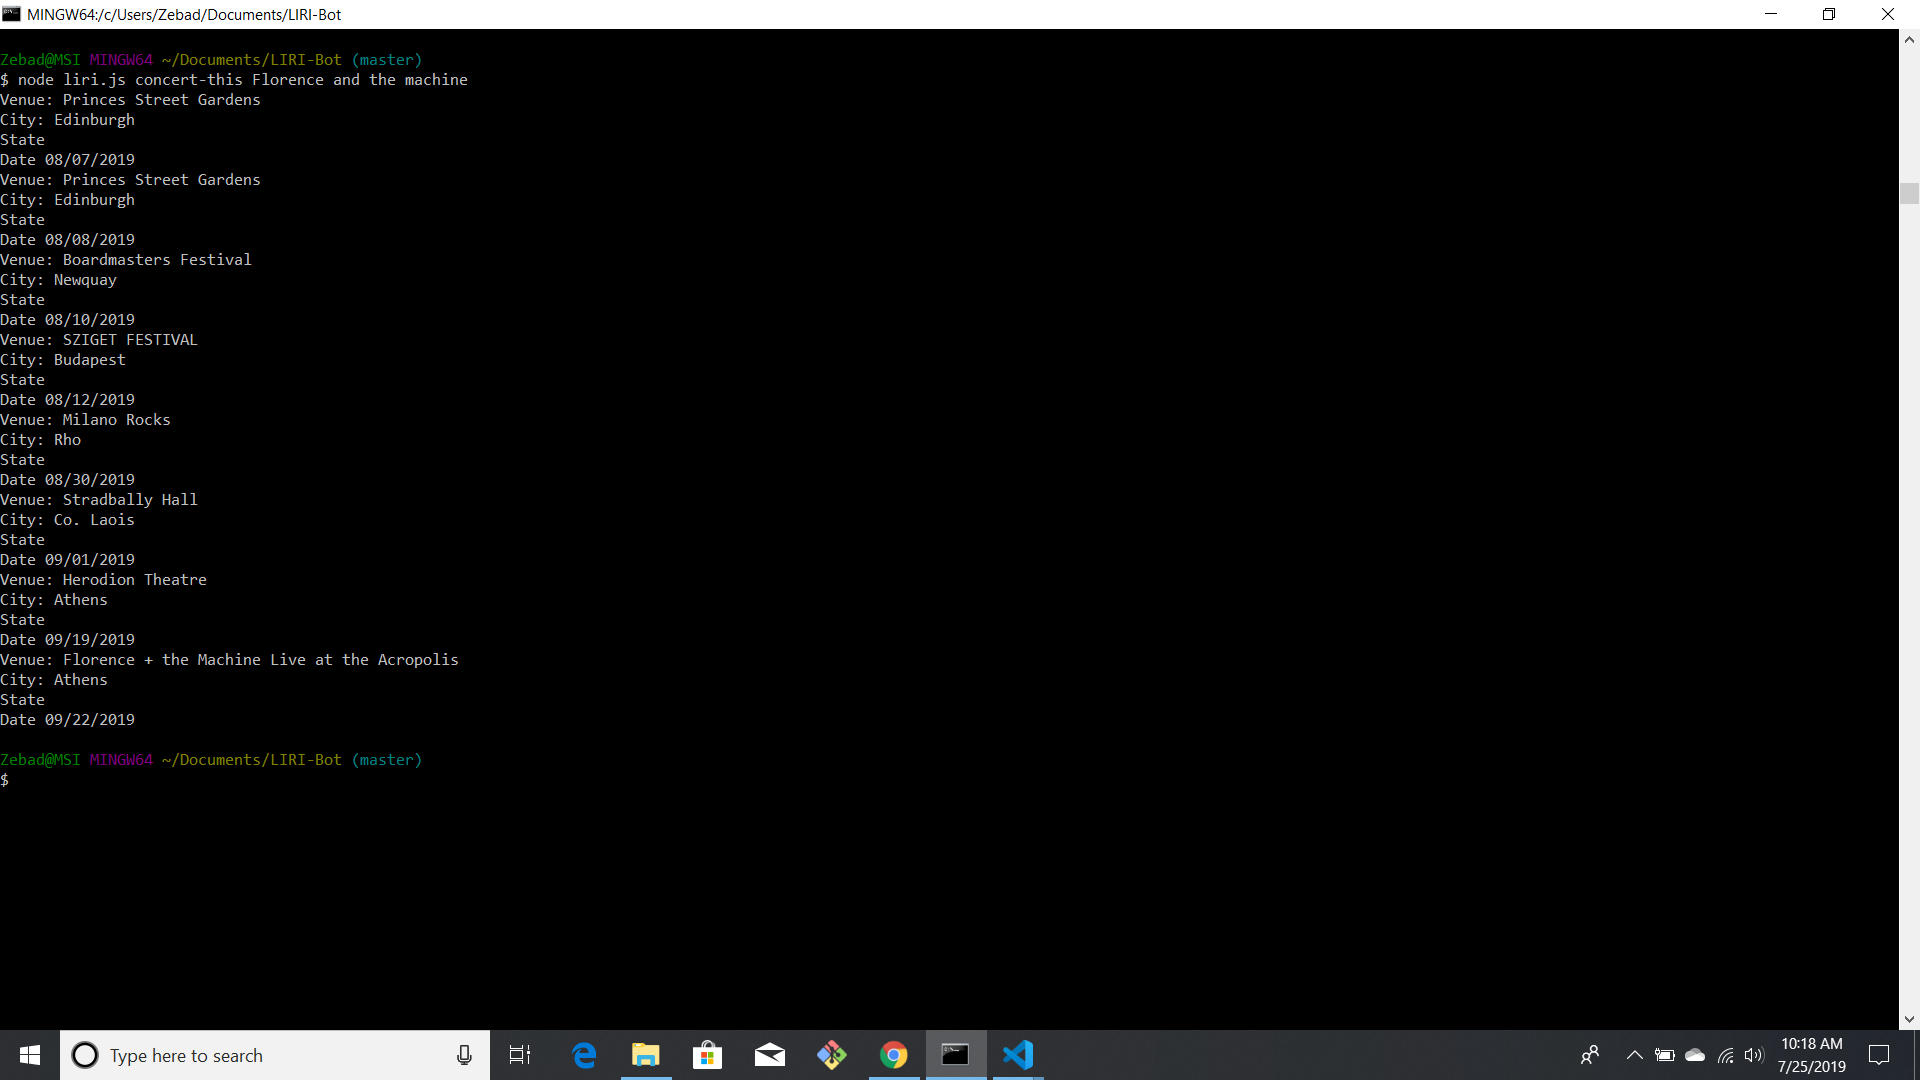
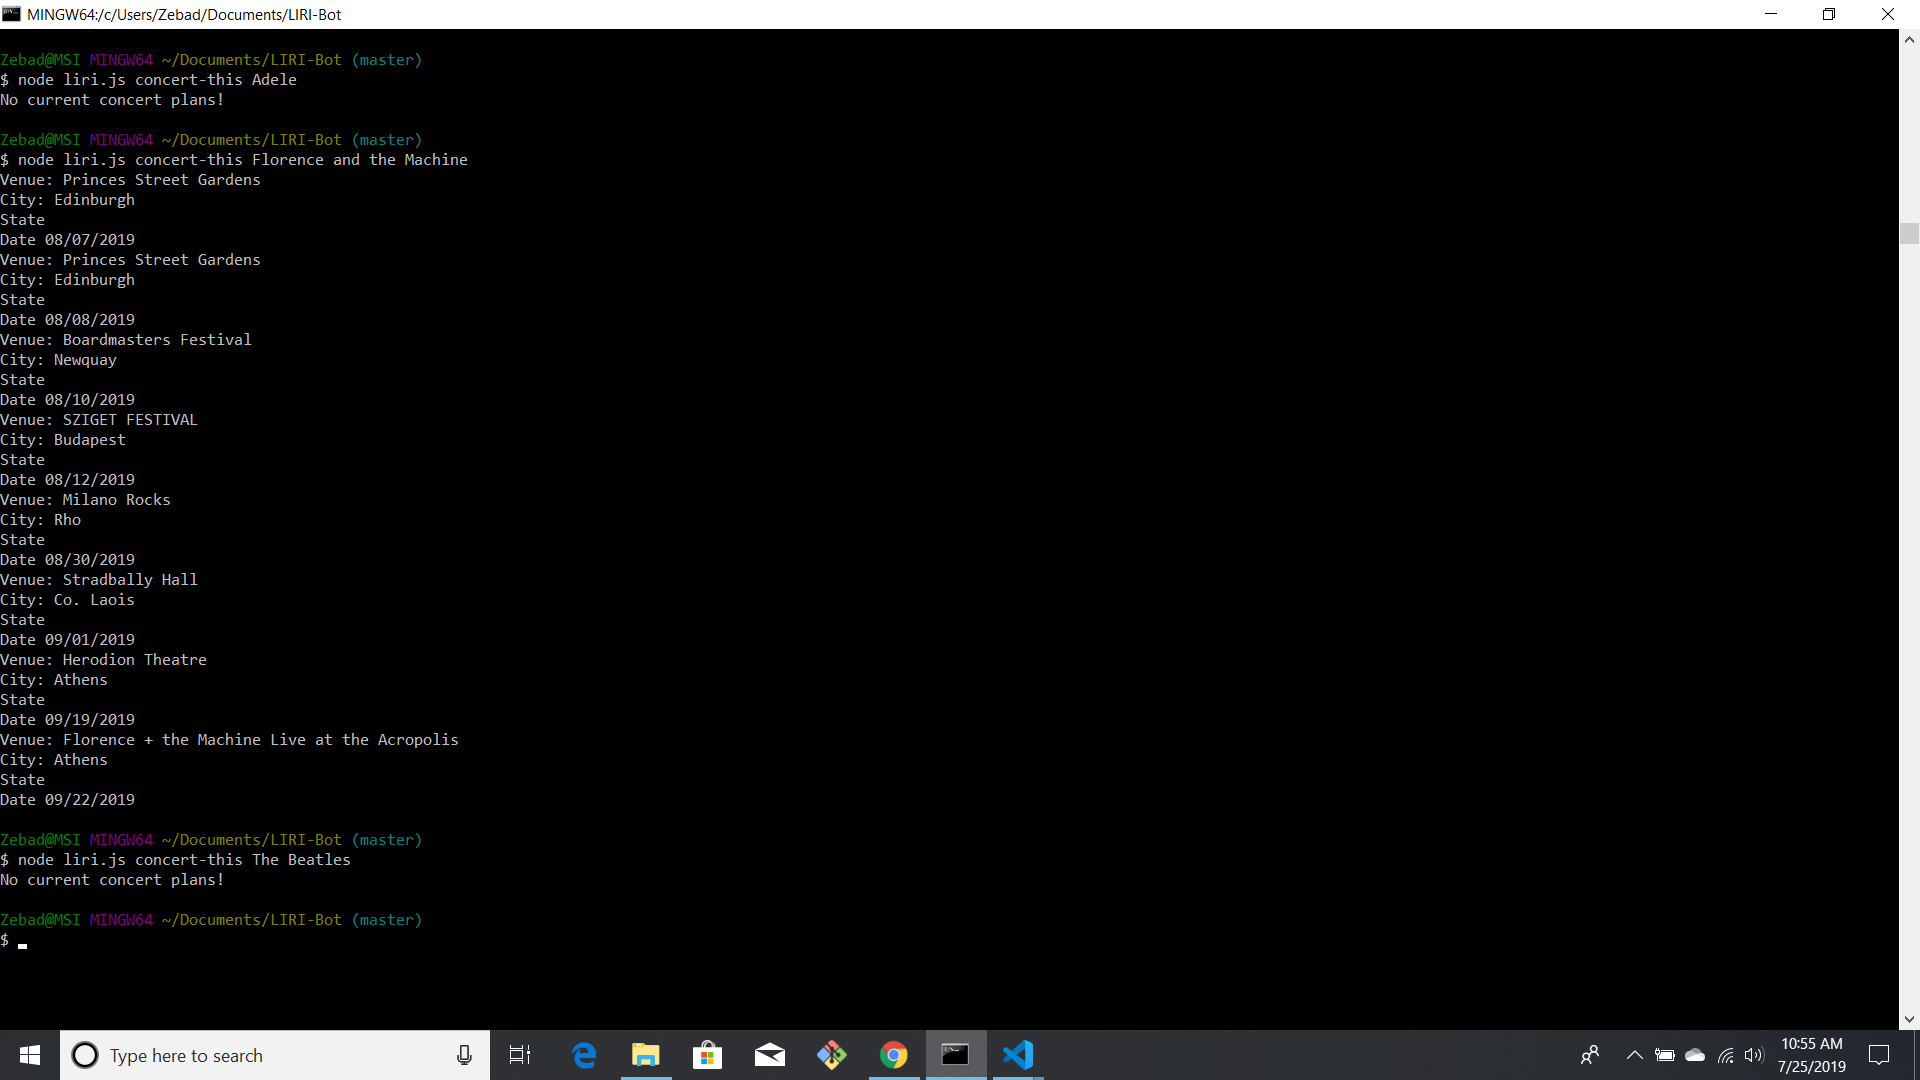
updated flavor text for concerts and readme updates

diff --git a/liri.js b/liri.js
@@ -59,7 +59,7 @@ const queryBands = "https://rest.bandsintown.com/artists/" + artist + "/events?a
 axios.get(queryBands).then(
     function(response) {
         if (response.data[0] == undefined){
-            console.log("No current concert plans!")
+            console.log("No concerts in the foreseeable future!")
         }
         else{
 

diff --git a/README.md b/README.md
@@ -2,8 +2,18 @@
 
 Welcome to LIRI-Bot!
 With this program you are able to find info to movies, songs, and concert location of any band!
-## Concerts
+## LIRI-Concerts
 -------
+With LIRI-Concerts you are able to enter any band name and see locations and dates of upcoming concerts.
+In order to access the information enter the command  line <span style="color:orange">*node liri.js concert-this <artist/band name here>*</span>.
+
+This will then search the Bands in Town Artist Events API and return.
+
++ Name of the venue
++ Venue location
++ Date of the Event (use moment to format this as "MM/DD/YYYY")
+
+If there are no concerts in the foreseable future it returns <span style="color:red"> No concerts in the foreseeable future!</span>
 
 
 
